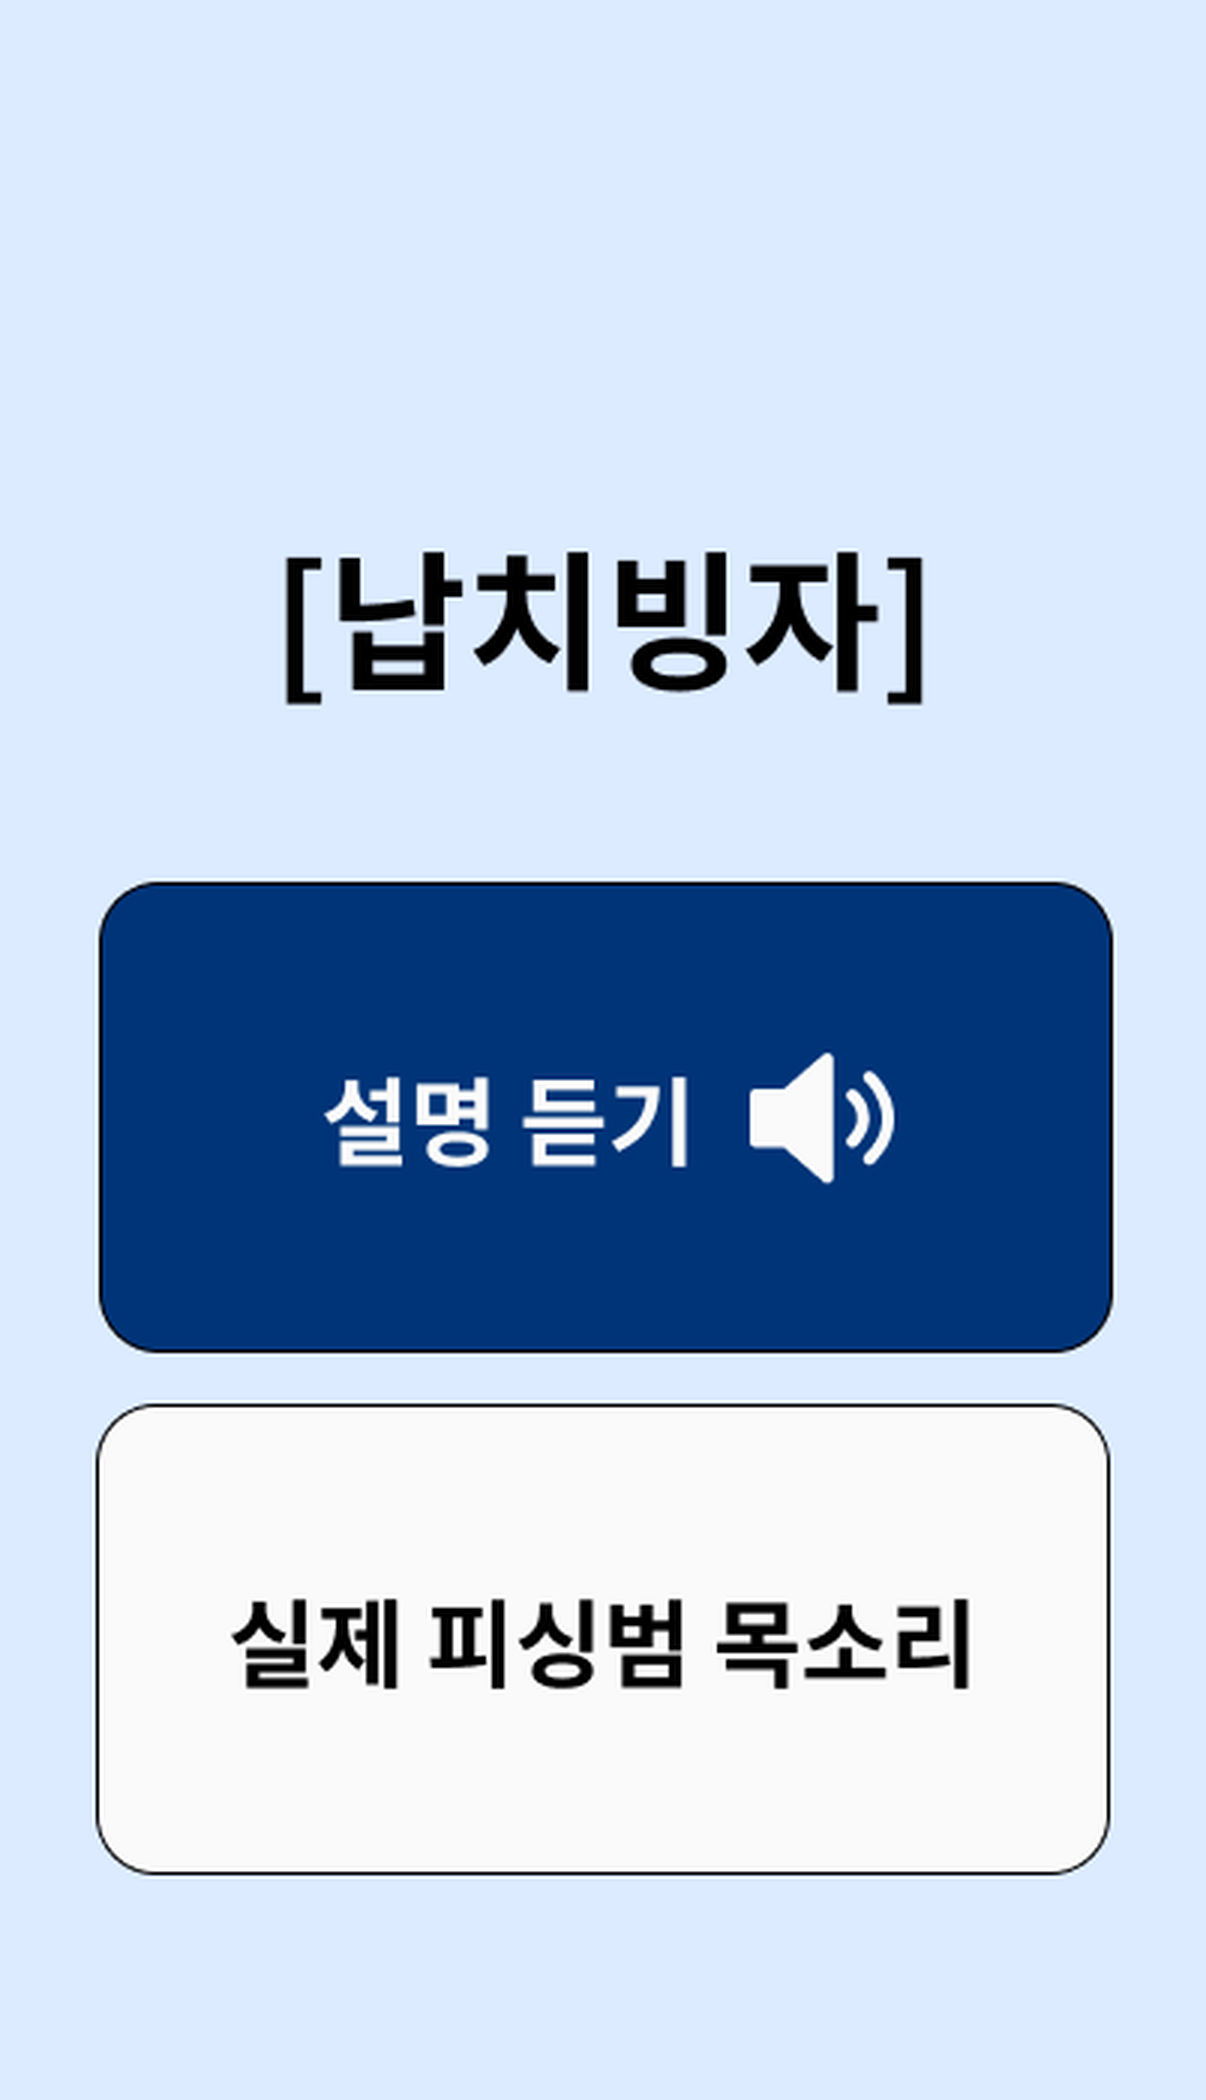
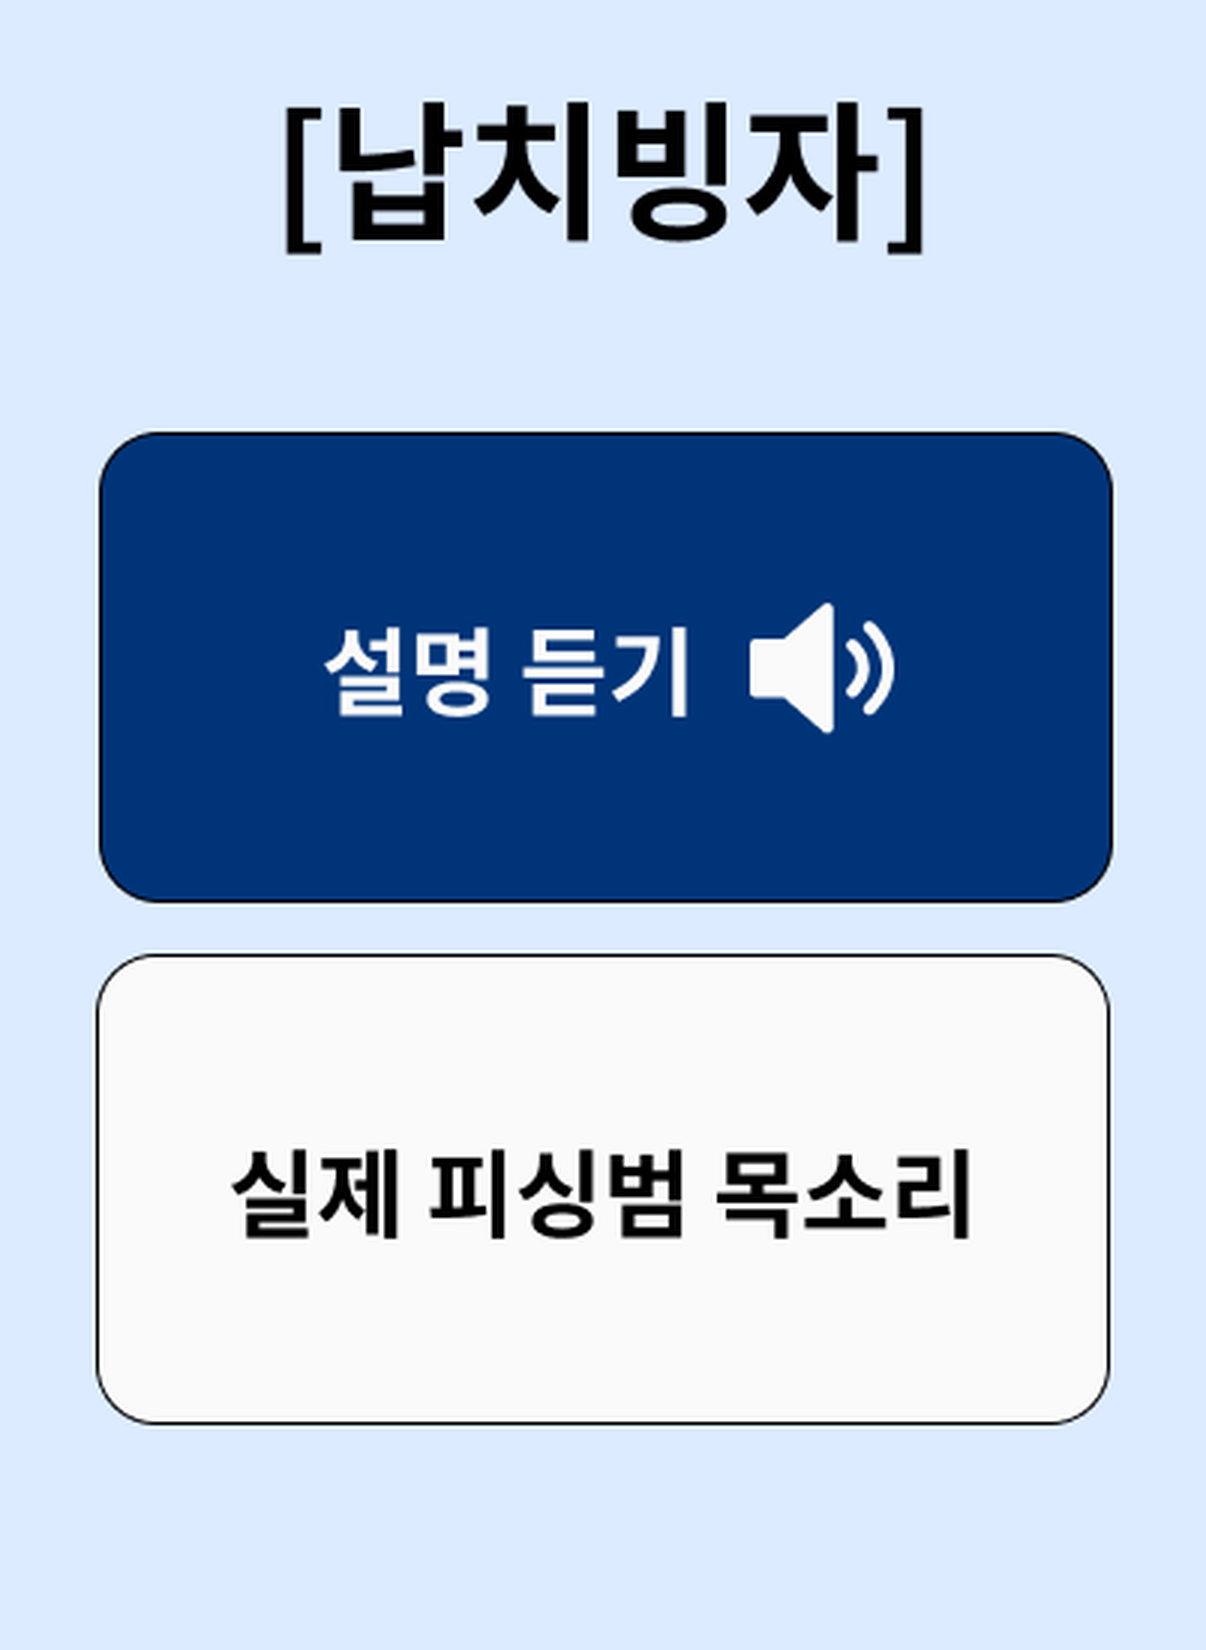
Add files via upload

diff --git a/type.html b/type.html
@@ -7,7 +7,7 @@
 <meta name="theme-color" content="#003478">
 <link rel="manifest" href="manifest.json">
 <link rel="icon" href="assets/icons/icon-192.png">
-<link rel="stylesheet" href="css/style.css?v=4">
+<link rel="stylesheet" href="css/style.css?v=6">
 </head>
 <body>
 <div class="screen">
@@ -26,8 +26,8 @@
   <p class="play-status" id="playStatus"></p>
 </div>
 
-<script src="js/types-data.js?v=4"></script>
-<script src="js/app.js?v=4"></script>
+<script src="js/types-data.js?v=6"></script>
+<script src="js/app.js?v=6"></script>
 <script>
   const params = new URLSearchParams(location.search);
   const id = params.get('id');

diff --git a/js/types-data.js b/js/types-data.js
@@ -61,11 +61,11 @@ const PHISHING_TYPES = [
   }
 ];
 
-// 원본 디자인 기준(크롭 후 402x700) 버튼 위치 - % 값
+// 원본 디자인 기준(크롭 후 402x550) 버튼 위치 - % 값
 const HOTSPOT_TWO_BTN = {
-  desc: 'left:8.46%;top:42.14%;width:83.58%;height:22.14%',
-  real: 'left:7.96%;top:66.86%;width:84.08%;height:21.71%'
+  desc: 'left:8.46%;top:26.36%;width:83.58%;height:28.18%',
+  real: 'left:7.96%;top:57.82%;width:84.08%;height:27.64%'
 };
 const HOTSPOT_ONE_BTN = {
-  desc: 'left:8.46%;top:42.14%;width:83.58%;height:47.00%'
+  desc: 'left:8.46%;top:26.36%;width:83.58%;height:59.82%'
 };

diff --git a/index.html b/index.html
@@ -9,7 +9,7 @@
 <link rel="manifest" href="manifest.json">
 <link rel="icon" href="assets/icons/icon-192.png">
 <link rel="apple-touch-icon" href="assets/icons/icon-180.png">
-<link rel="stylesheet" href="css/style.css?v=4">
+<link rel="stylesheet" href="css/style.css?v=6">
 </head>
 <body>
 <div class="screen">
@@ -26,7 +26,7 @@
   </div>
 </div>
 
-<script src="js/app.js?v=4"></script>
+<script src="js/app.js?v=6"></script>
 <script>
   syncHotspotLayer(document.getElementById('shotImg'), document.getElementById('hotspotLayer'));
 </script>

diff --git a/fake-apps.html b/fake-apps.html
@@ -7,7 +7,7 @@
 <meta name="theme-color" content="#003478">
 <link rel="manifest" href="manifest.json">
 <link rel="icon" href="assets/icons/icon-192.png">
-<link rel="stylesheet" href="css/style.css?v=4">
+<link rel="stylesheet" href="css/style.css?v=6">
 </head>
 <body>
 <div class="screen">
@@ -22,6 +22,6 @@
     <img src="assets/screens/fake-apps.png" alt="실제 사칭앱 - 실제 신한은행 사칭앱 이미지">
   </div>
 </div>
-<script src="js/app.js?v=4"></script>
+<script src="js/app.js?v=6"></script>
 </body>
 </html>

diff --git a/detect-apps.html b/detect-apps.html
@@ -7,7 +7,7 @@
 <meta name="theme-color" content="#003478">
 <link rel="manifest" href="manifest.json">
 <link rel="icon" href="assets/icons/icon-192.png">
-<link rel="stylesheet" href="css/style.css?v=4">
+<link rel="stylesheet" href="css/style.css?v=6">
 </head>
 <body>
 <div class="screen">
@@ -27,7 +27,7 @@
   </div>
 </div>
 
-<script src="js/app.js?v=4"></script>
+<script src="js/app.js?v=6"></script>
 <script>
   syncHotspotLayer(document.getElementById('shotImg'), document.getElementById('hotspotLayer'));
 </script>

diff --git a/types.html b/types.html
@@ -7,7 +7,7 @@
 <meta name="theme-color" content="#003478">
 <link rel="manifest" href="manifest.json">
 <link rel="icon" href="assets/icons/icon-192.png">
-<link rel="stylesheet" href="css/style.css?v=4">
+<link rel="stylesheet" href="css/style.css?v=6">
 </head>
 <body>
 <div class="screen">
@@ -34,7 +34,7 @@
   </div>
 </div>
 
-<script src="js/app.js?v=4"></script>
+<script src="js/app.js?v=6"></script>
 <script>
   syncHotspotLayer(document.getElementById('shotImg'), document.getElementById('hotspotLayer'));
 </script>

diff --git a/prevention.html b/prevention.html
@@ -7,7 +7,7 @@
 <meta name="theme-color" content="#003478">
 <link rel="manifest" href="manifest.json">
 <link rel="icon" href="assets/icons/icon-192.png">
-<link rel="stylesheet" href="css/style.css?v=4">
+<link rel="stylesheet" href="css/style.css?v=6">
 </head>
 <body>
 <div class="screen">
@@ -22,6 +22,6 @@
     <img src="assets/screens/prevention.png" alt="예방법">
   </div>
 </div>
-<script src="js/app.js?v=4"></script>
+<script src="js/app.js?v=6"></script>
 </body>
 </html>

diff --git a/css/style.css b/css/style.css
@@ -72,7 +72,7 @@ body{
   min-height: 0;
   position: relative;
   display: flex;
-  align-items: flex-start;
+  align-items: center;
   justify-content: center;
 }
 .screen-shot-wrap img{
